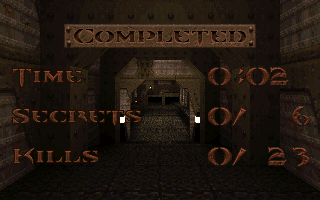
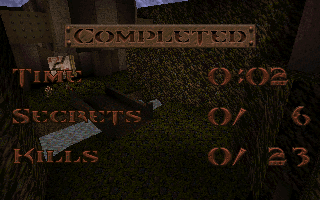
The PSQL game's intermission camera: changelevel moves the view to one of the level's info_intermission spots at random (else the start), looking along its mangle from the spot, freezes the player and plays the intermission music, as execute_changelevel does

diff --git a/docs/ARCHITECTURE.md b/docs/ARCHITECTURE.md
@@ -128,7 +128,7 @@ A direct port of `world.c` and `sv_phys.c`:
 
 - `spawn_map_ents(skill)`: walks `map_ents`, drops entities by skill flags and deathmatch, applies the registered-only gates (`trigger_onlyregistered`, `func_episodegate`, `func_bossgate`), and spawns each class: `light_*` and `ambient_*` as point entities that only the audio reads, `func_*` movers with their sounds, speeds and positions (`calc_move`, START_OPEN, `lip`, `wait`), `trigger_*` as non-solid boxes with `touch`, items with their box model (`b_*.bsp`) and `drop_to_floor`, keys by `world_type`, weapons, `misc_*`, `trap_spikeshooter`, `path_corner`, `info_*`, and every `monster_*` through `spawn_monster` by the class suffix. Doors that touch are linked (`linked_id`) so a pair opens as one.
 - Movers: `door_*` (`door_touch` with the two-second debounce via `attack_finished`, key checks with the metal/base/medieval messages, `door_fire`/`go_up`/`go_down`/`hit_top`/`hit_bottom`), `plat_*`, `button_*`, `train_*` with `path_corner` targets, `secret_*` (the six-step secret door). All use `mv_state` 0 top, 1 bottom, 2 up, 3 down, and `SUB_CalcMove` semantics: a destination, a speed, and `ltime`-based arrival.
-- Triggers: once, multiple (with `wait`), relay, counter, secret, teleport (`teleport_touch`, telefrag by box overlap), push, hurt, monsterjump, setskill (the start map's halls: the player's touch sets `game.skill` to the hall's message, which the tic's `skill` column hands to the page for the next level, as Quake's `localcmd("skill N")` does; in QuakeC mode `localcmd` keeps a console buffer in `qc_vm.cmdbuf` and runs `skill N` lines), changelevel (`changelevel` sets `next_map` and `exit_kind`), message, onlyregistered. `use_targets(ent, activator)` fires everything with a matching `targetname`, by class; `delayed_use` through a think.
+- Triggers: once, multiple (with `wait`), relay, counter, secret, teleport (`teleport_touch`, telefrag by box overlap), push, hurt, monsterjump, setskill (the start map's halls: the player's touch sets `game.skill` to the hall's message, which the tic's `skill` column hands to the page for the next level, as Quake's `localcmd("skill N")` does; in QuakeC mode `localcmd` keeps a console buffer in `qc_vm.cmdbuf` and runs `skill N` lines), changelevel (`changelevel` sets `next_map` and `exit_kind`, and, as `execute_changelevel`, moves the player to an intermission camera: one of the `info_intermission` spots of `map_ents` at random, else the start, looking along its `mangle` with `view_ofs` 0; `player_think` does nothing while `game.intermission` is set, so the camera holds; CD track 3), message, onlyregistered. `use_targets(ent, activator)` fires everything with a matching `targetname`, by class; `delayed_use` through a think.
 - Items: `item_touch` gives health (with the mega-health rot), armour, ammo (`bound_ammo`), weapons (`best_weapon`), keys, sigils, powerups, backpacks; respawn is deathmatch-only and absent.
 - Combat: `t_damage(target, inflictor, attacker, dmg)` with armour absorption, god mode, the damage momentum, pain (`monster_pain`), death (`killed` → `monster_die`, gibs through `throw_gib`/`throw_head`, kill count); `t_radius_damage` for explosions. On skill 3 (`nightmare()`) a monster gets no wait before attacking (`found_target`, `check_attack` and the return to the player leave `attack_finished` alone, as `SUB_AttackFinished` does) and, once hurt, no pain animation for five seconds (`t_damage` sets `pain_finished`, as `T_Damage` does); it spawns the hard skill's entities. A monster hurt by anything but the world, itself or the enemy it already has gets mad at the attacker (`found_target(eid, enemy)`: the sight sound, the run, a second before the first attack) unless the attacker is of its own class, soldiers excepted, as `combat.qc`'s `T_Damage` has it; a monster that was hunting the player keeps it in `oldenemy_id`, and when its enemy dies it goes back to the player (`ai_run`'s `HuntTarget`). So an ogre's grenade turns a knight on the ogre, two grunts can shoot it out, and a barrel's blast turns monsters on the barrel for as long as it lasts (`scripts/infight-test.mjs`).
 - Projectiles: `launch_spike`/`launch_grenade`/`launch_rocket` create tossed or flying entities whose `impact(e1, e2)` does the class-specific thing: spikes and the three monster spike kinds, rockets, lasers, vore balls, lava balls, fireballs, grenades (bounce, explode on a timer or on a monster), zombie gibs, and the player bumping doors, secret doors, buttons, and taking fall damage.

diff --git a/docs/ROADMAP.md b/docs/ROADMAP.md
@@ -9,7 +9,7 @@ does not do yet, roughly by how much it would change the experience. Items marke
 - ~~**Dynamic lights**~~ done (`src/dlights.js`, ARCHITECTURE section 10): rockets, explosions, the muzzle flashes and the powerup glows light the world and the models, the lit faces rebuilt for the frame as Quake's `R_AddDynamicLights` does. Left: the slow renderer (`frame_faces`) lights world faces only (its rows carry no brush model origin), and the PSQL game has no muzzle flash for monsters (its effects bits mean fullbright).
 - ~~**Monster infighting**~~ done (`npm run test:infight`): `t_damage` follows `T_Damage` (mad at any attacker but the world, itself and its current enemy, never at its own class except soldiers, the player kept in `oldenemy_id`), and `monster_think` goes back to the player when the enemy dies. Left: a monster's attacks aim at a monster as at the player (the eye height in `check_attack` is the player's 22).
 - ~~**Skill 3 (nightmare)**~~ done (`npm run test:skill`): no wait before attacks, pain at most every five seconds, the hard skill's entities; the page offers it, and the start map's halls (`trigger_setskill`, nightmare's hidden one included) choose the skill for the next level in both modes.
-- **Intermission** (*SQL*): the stats screen is drawn as Quake's (`Sbar_IntermissionOverlay`, `gfx/complete.lmp`, `gfx/inter.lmp`, the time, secrets and kills) until fire, in both modes; QuakeC mode also moves the view to an `info_intermission` camera, as progs.dat does. The PSQL game still shows it over the level's last frame: its `changelevel` would need `execute_changelevel`'s camera (the player moved to an `info_intermission`, its `mangle` as the view).
+- ~~**Intermission**~~ done: the stats screen is drawn as Quake's (`Sbar_IntermissionOverlay`, `gfx/complete.lmp`, `gfx/inter.lmp`, the time, secrets and kills) until fire, in both modes, from an `info_intermission` camera (in the PSQL game `changelevel` does what `execute_changelevel` does: a random camera, else the start, its `mangle` as the view, the eye at the spot, the player frozen, the intermission music).
 - **The menu**: no menu, no options screen, no episode select other than walking through the start map's gates.
 - **Save and load**: not present, and a natural fit: the whole state is the dynamic tables (`ents`, `player`, `game`, `lightstyles`, `vis_faces`), so a save is a copy of those rows (into `*_saved` tables, or a JSON export through `SELECT`) and a load is a restore, with `viewcfg.vis_leaf` cleared.
 - **Demos**: recording the nine `quake_tic` arguments per tic reproduces a game exactly (the only randomness is `RAND()`, which would need a seeded replacement in `monsters.sql`). Playback would make the scene tests reproducible too.

diff --git a/README.md b/README.md
@@ -256,7 +256,7 @@ physics, the movers and the AI, and they run in CI before every deploy.
 | `npm run test:skill` | the skills: each of the start map's halls sets its skill, nightmare's monsters attack without waiting and flinch at most every five seconds (two hits make a knight flinch twice on normal, once on nightmare), and QuakeC's `localcmd("skill 3")` sets it in QuakeC mode |
 | `npm run test:infight` | monsters fighting monsters: a knight hurt by an ogre turns on it and remembers the player, a knight spares a knight but a grunt turns on a grunt, the knight and the ogre fight until one dies, and the survivor goes back to the player |
 | `npm run test:registered` | the pak1 monsters' AI, spawned into E1M1 without their models: each is made to see the player and watched for its signature behaviour |
-| `npm run test:e1m8` | Ziggurat Vertigo: gravity 100, so jumps and grenades go far and falls are gentle; the exit leads to E1M5 |
+| `npm run test:e1m8` | Ziggurat Vertigo: gravity 100, so jumps and grenades go far and falls are gentle; the exit leads to E1M5, the view moving to an intermission camera that holds, with the stats and the intermission music |
 | `npm run test:e1m5` | the crucified zombies on the start map, and Gloom Keep's flooded moat: swimming, breath, drowning, surfacing |
 | `npm run test:e1m2` | Castle of the Damned: the drawbridge slab sinks into the moat, and the player wades across on it |
 | `npm run test:e1m3` | the Necropolis: the gold key springs the zombie pits; zombies shrug off pellets, fall and rise, throw flesh, and die only when gibbed |

diff --git a/docs/screenshots.md b/docs/screenshots.md
@@ -455,14 +455,14 @@ node scripts/screenshot.mjs e1m1 docs/qcvm-ai --qc --at=1150,1030,-250,330 --tic
 ## The intermission and the finale
 
 The end of a level, as Quake's status bar code draws it (`Sbar_IntermissionOverlay`): the time,
-the secrets and the kills over the view, until fire. The PSQL game shows it over the last frame when
-`changelevel` fires; in QuakeC mode progs.dat sends `svc_intermission` from the `info_intermission`
-camera. After E1M7, `ExitIntermission` sends `svc_cdtrack` and `svc_finale`, whose text the page
+the secrets and the kills over the view from one of the level's `info_intermission` cameras, until
+fire: the PSQL game's `changelevel` moves the view there as `execute_changelevel` does, and in QuakeC
+mode progs.dat does it itself and sends `svc_intermission`. After E1M7, `ExitIntermission` sends `svc_cdtrack` and `svc_finale`, whose text the page
 types out at eight characters a second under `gfx/finale.lmp`.
 
 ![the intermission after E1M1](intermission-e1m1-0.png) ![the end of the shareware episode, after E1M7](finale-e1m7-0.png)
 
-1. E1M1 completed: the stats over the last frame
+1. E1M1 completed: the stats over an intermission camera's view (one of E1M1's, at random)
 2. after E1M7, in QuakeC mode: the finale's text (here all of it) over the intermission camera's view
 
 ```bash
